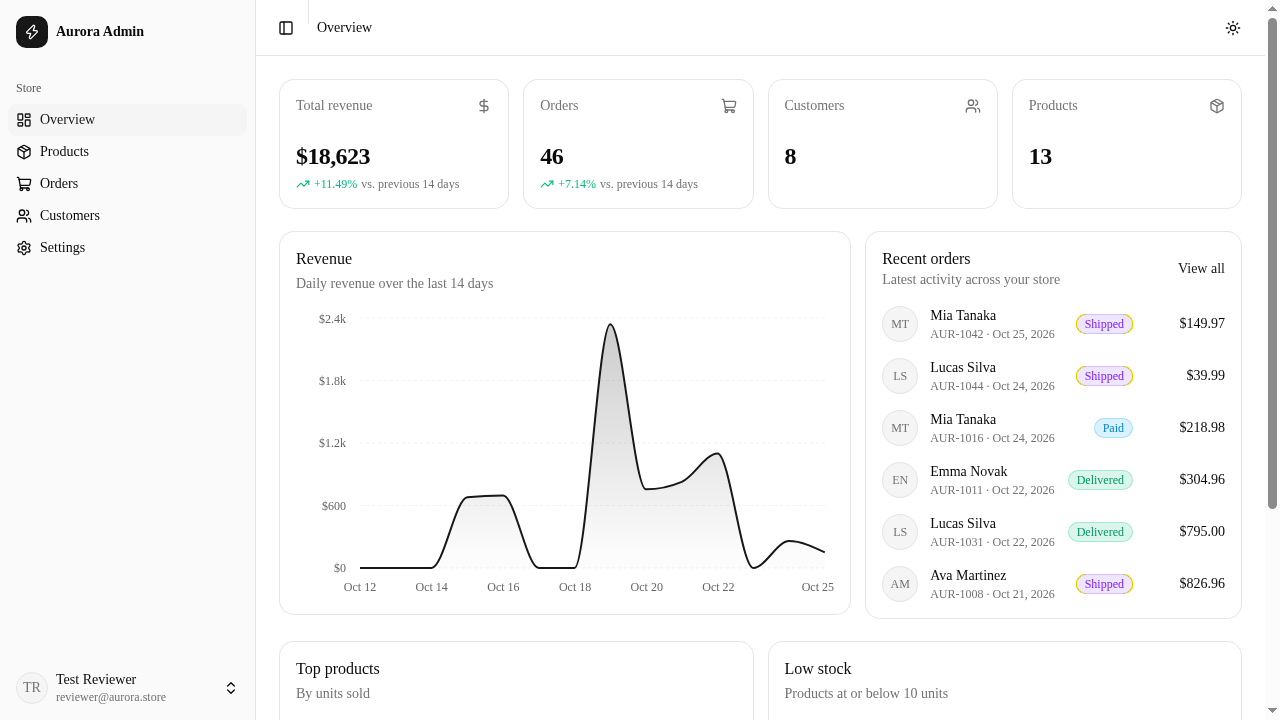
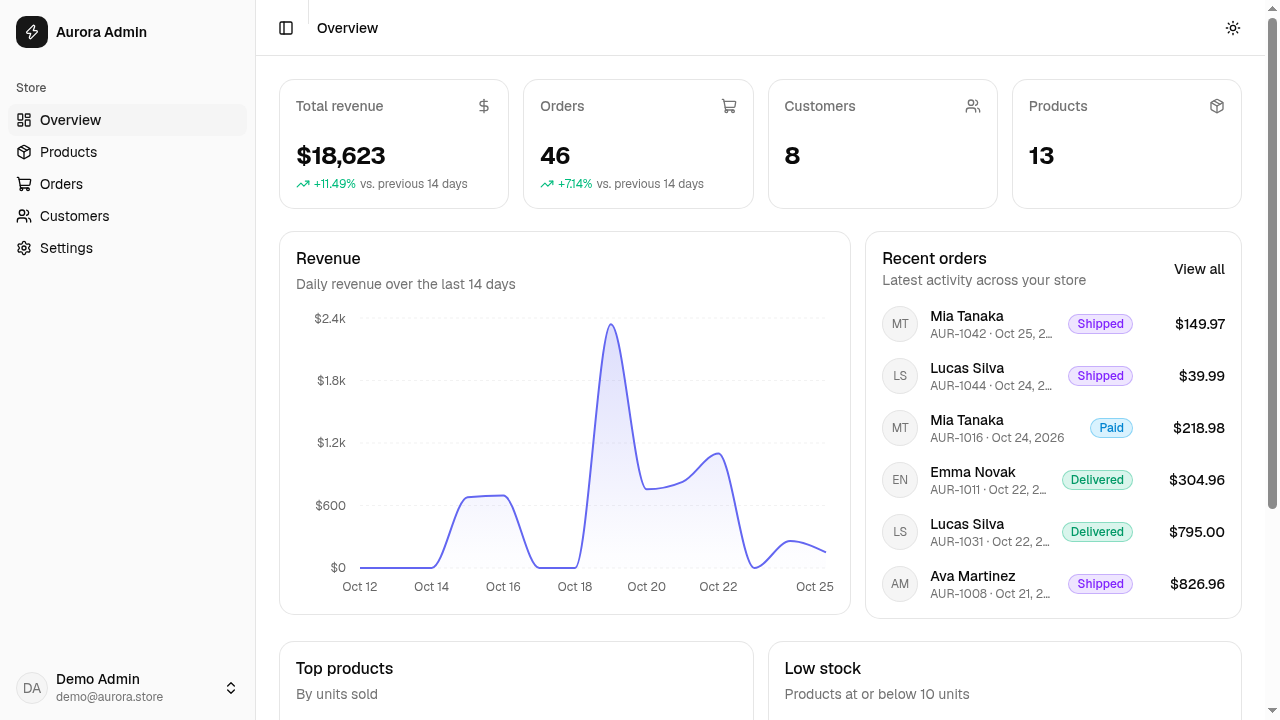
Polish: fix Geist font loading, mobile overflow, badge contrast, light-mode chart paint; add architecture walkthrough

diff --git a/src/components/status-badge.tsx b/src/components/status-badge.tsx
@@ -2,14 +2,14 @@ import { Badge } from "@/components/ui/badge";
 import { cn } from "@/lib/utils";
 
 const styles: Record<string, string> = {
-  pending: "bg-amber-500/15 text-amber-600 dark:text-amber-400 border-amber-500/25",
-  paid: "bg-sky-500/15 text-sky-600 dark:text-sky-400 border-sky-500/25",
-  shipped: "bg-violet-500/15 text-violet-600 dark:text-violet-400 border-violet-500/25",
-  delivered: "bg-emerald-500/15 text-emerald-600 dark:text-emerald-400 border-emerald-500/25",
-  cancelled: "bg-red-500/15 text-red-600 dark:text-red-400 border-red-500/25",
-  active: "bg-emerald-500/15 text-emerald-600 dark:text-emerald-400 border-emerald-500/25",
-  draft: "bg-zinc-500/15 text-zinc-600 dark:text-zinc-400 border-zinc-500/25",
-  archived: "bg-orange-500/15 text-orange-600 dark:text-orange-400 border-orange-500/25",
+  pending: "bg-amber-500/15 text-amber-600 dark:text-amber-400 border-[rgb(245_158_11/0.4)]",
+  paid: "bg-sky-500/15 text-sky-600 dark:text-sky-400 border-[rgb(14_165_233/0.4)]",
+  shipped: "bg-violet-500/15 text-violet-600 dark:text-violet-400 border-[rgb(139_92_246/0.4)]",
+  delivered: "bg-emerald-500/15 text-emerald-600 dark:text-emerald-400 border-[rgb(16_185_129/0.4)]",
+  cancelled: "bg-red-500/15 text-red-600 dark:text-red-400 border-[rgb(239_68_68/0.4)]",
+  active: "bg-emerald-500/15 text-emerald-600 dark:text-emerald-400 border-[rgb(16_185_129/0.4)]",
+  draft: "bg-zinc-500/15 text-zinc-600 dark:text-zinc-400 border-[rgb(113_113_122/0.4)]",
+  archived: "bg-orange-500/15 text-orange-600 dark:text-orange-400 border-[rgb(249_115_22/0.4)]",
 };
 
 export function StatusBadge({ status }: { status: string }) {

diff --git a/src/app/layout.tsx b/src/app/layout.tsx
@@ -14,8 +14,8 @@ export const metadata: Metadata = {
 
 export default function RootLayout({ children }: Readonly<{ children: React.ReactNode }>) {
   return (
-    <html lang="en" suppressHydrationWarning>
-      <body className={`${geistSans.variable} ${geistMono.variable} antialiased`}>
+    <html lang="en" suppressHydrationWarning className={`${geistSans.variable} ${geistMono.variable}`}>
+      <body className="antialiased">
         <ThemeProvider attribute="class" defaultTheme="system" enableSystem disableTransitionOnChange>
           {children}
           <Toaster richColors position="top-right" />

diff --git a/src/app/dashboard/page.tsx b/src/app/dashboard/page.tsx
@@ -50,10 +50,10 @@ export default function DashboardPage() {
           )}
         </div>
         <div className="grid gap-4 lg:grid-cols-5">
-          <div className="lg:col-span-3">
+          <div className="min-w-0 lg:col-span-3">
             {stats ? <RevenueChart data={stats.revenueSeries} /> : <Skeleton className="h-96 rounded-xl" />}
           </div>
-          <div className="lg:col-span-2">
+          <div className="min-w-0 lg:col-span-2">
             {stats ? <RecentOrders orders={stats.recentOrders} /> : <Skeleton className="h-96 rounded-xl" />}
           </div>
         </div>

diff --git a/src/app/dashboard/customers/page.tsx b/src/app/dashboard/customers/page.tsx
@@ -52,8 +52,8 @@ export default function CustomersPage() {
           <Search className="absolute left-2.5 top-2.5 h-4 w-4 text-muted-foreground" />
           <Input placeholder="Search customers…" value={q} onChange={(e) => setQ(e.target.value)} className="pl-9" />
         </div>
-        <div className="rounded-xl border bg-card">
-          <Table>
+        <div className="overflow-x-auto rounded-xl border bg-card">
+          <Table className="min-w-[520px]">
             <TableHeader>
               <TableRow>
                 <TableHead>Customer</TableHead>

diff --git a/src/components/revenue-chart.tsx b/src/components/revenue-chart.tsx
@@ -6,7 +6,10 @@ import { ChartContainer, ChartTooltip, ChartTooltipContent, type ChartConfig } f
 import { formatCurrency } from "@/lib/format";
 
 const chartConfig = {
-  revenue: { label: "Revenue", color: "var(--color-primary, #6366f1)" },
+  revenue: {
+    label: "Revenue",
+    theme: { light: "#6366f1", dark: "#a5b4fc" },
+  },
 } satisfies ChartConfig;
 
 export function RevenueChart({ data }: { data: { date: string; revenue: number; orders: number }[] }) {

diff --git a/src/app/dashboard/products/page.tsx b/src/app/dashboard/products/page.tsx
@@ -92,8 +92,8 @@ export default function ProductsPage() {
           </Button>
         </div>
 
-        <div className="rounded-xl border bg-card">
-          <Table>
+        <div className="overflow-x-auto rounded-xl border bg-card">
+          <Table className="min-w-[640px]">
             <TableHeader>
               <TableRow>
                 <TableHead>Product</TableHead>

diff --git a/src/app/dashboard/orders/page.tsx b/src/app/dashboard/orders/page.tsx
@@ -124,8 +124,8 @@ export default function OrdersPage() {
           </Select>
         </div>
 
-        <div className="rounded-xl border bg-card">
-          <Table>
+        <div className="overflow-x-auto rounded-xl border bg-card">
+          <Table className="min-w-[640px]">
             <TableHeader>
               <TableRow>
                 <TableHead>Order</TableHead>

diff --git a/src/app/globals.css b/src/app/globals.css
@@ -7,7 +7,7 @@
 @theme inline {
   --color-background: var(--background);
   --color-foreground: var(--foreground);
-  --font-sans: var(--font-sans);
+  --font-sans: var(--font-geist-sans), ui-sans-serif, system-ui, -apple-system, "Segoe UI", sans-serif;
   --font-mono: var(--font-geist-mono);
   --font-heading: var(--font-sans);
   --color-sidebar-ring: var(--sidebar-ring);

diff --git a/docs/ARCHITECTURE.md b/docs/ARCHITECTURE.md
@@ -1,0 +1,120 @@
+# Architecture & code walkthrough
+
+A guided tour of how Aurora Admin fits together, written so you can explain every part
+of the implementation in your own words.
+
+## Big picture
+
+This is a **single Next.js application**: the React frontend and the JSON API live in the
+same codebase and the same server process. The frontend calls the API with `fetch`, and
+the API talks to a SQLite database through Prisma.
+
+```
+Browser (React pages, client components)
+    |  fetch("/api/...") with session cookie
+    v
+Next.js route handlers (src/app/api/**)  -- zod validation, session check
+    |  Prisma Client
+    v
+SQLite database (prisma/dev.db)
+```
+
+## The data model (prisma/schema.prisma)
+
+Five models:
+
+- **User** – dashboard accounts. Stores `passwordHash` (never the plain password).
+- **Product** – catalog items with SKU, category, price, stock and a lifecycle status
+  (`active` / `draft` / `archived`).
+- **Customer** – people who placed orders.
+- **Order** – has a human-friendly `orderNumber`, a workflow status
+  (`pending → paid → shipped → delivered`, or `cancelled`), a cached `total`, and a
+  required link to its Customer.
+- **OrderItem** – join rows between Order and Product with `quantity` and the
+  `unitPrice` at purchase time, so past orders don't change when a product price changes.
+
+`prisma/seed.ts` wipes and recreates deterministic demo data (a seeded PRNG means the
+same products/orders every time) plus a demo admin account.
+
+## Authentication, end to end (src/lib/auth.ts)
+
+1. **Signup** (`POST /api/auth/signup`): the body is parsed with
+   `signupSchema` (zod). Duplicate emails are rejected with 409. The password is hashed
+   with **bcrypt, cost 12** (`hashPassword`) and only the hash is stored.
+2. **Session**: on signup or login, `setSessionCookie` signs a JWT containing the user
+   id with **jose** (HS256, 7-day expiry) and stores it in an `httpOnly`,
+   `sameSite=lax` cookie. `httpOnly` means JavaScript can't read it, which blocks XSS
+   token theft; the browser sends it automatically on every request.
+3. **Login** (`POST /api/auth/login`): looks the user up by email and calls
+   `bcrypt.compare`. Wrong email and wrong password return the **same** generic 401
+   message so the endpoint can't be used to enumerate accounts.
+4. **Guards**: `getSessionUser()` reads + verifies the cookie and loads the user. It is
+   called in two places, so protection doesn't depend on any single layer:
+   - `src/app/dashboard/layout.tsx` (server component) redirects anonymous visitors to
+     `/login` before any dashboard HTML is rendered;
+   - every API route returns **401** when there is no valid session.
+5. **Logout** clears the cookie.
+6. **Password change** re-verifies the current password before storing the new hash.
+
+Why JWT-in-cookie instead of a database session table? Stateless verification (no DB
+lookup to validate the token), which is simple and fast for this scope; the trade-off
+(no server-side revocation list) is acceptable for a demo and is a good talking point.
+
+## Input validation (src/lib/validators.ts)
+
+All request bodies go through zod schemas shared by client and server: signup, login,
+product create/update (SKU format, positive price, non-negative integer stock, status
+enum), order status, profile and password change. The API never trusts the client:
+even though forms have `required`/`minLength` attributes, the same rules run again on
+the server.
+
+## The API layer (src/app/api/**)
+
+Next.js **route handlers** (`route.ts` files) replace a separate Express app:
+
+- `GET/POST /api/products`, `PATCH/DELETE /api/products/[id]` – list with debounced
+  search + pagination (8 per page), create with duplicate-SKU guard (409), update with
+  partial schema, delete blocked when the product appears in orders (the UI suggests
+  archiving instead).
+- `GET /api/orders`, `GET/PATCH /api/orders/[id]` – list with search + status filter +
+  pagination; detail includes line items with product names; status updates are
+  validated against the workflow enum.
+- `GET /api/customers` – customers with computed `ordersCount` and `totalSpent`
+  (cancelled orders excluded).
+- `GET /api/stats` – everything the overview page needs in one round trip.
+- `/api/auth/*` and `/api/settings/profile` as described above.
+
+## Stats & charts (src/lib/stats.ts)
+
+Aggregation logic is **pure functions** (no database, no framework) so it can be unit
+tested: `totalRevenue` (excludes cancelled orders), `countByStatus`,
+`dailyRevenueSeries` (builds a contiguous 14-day UTC series with zero-filled gaps),
+`percentChange` (period-over-period deltas, `null` when the previous period was 0).
+`/api/stats` only queries Prisma and delegates the math. The chart is Recharts wrapped
+in the shadcn/ui `ChartContainer` for theming.
+
+## Frontend composition
+
+- `src/app/(auth)/` – login & signup share a layout with the animated gradient
+  backdrop; `auth-form.tsx` is one client component parameterised by mode.
+- `src/app/dashboard/layout.tsx` – server-side session guard + sidebar shell
+  (`SidebarProvider`, `AppSidebar`, collapsible on mobile).
+- Pages are client components that fetch their API, with skeleton placeholders while
+  the displayed data doesn't match the current query (a keyed-result pattern instead
+  of `setState` inside effects).
+- UI primitives in `src/components/ui/` come from the **shadcn/ui** registry (Base UI
+  style); application components (sidebar, stat cards, tables, dialogs, chart) are
+  composed from them in `src/components/`.
+- Dark/light theming uses `next-themes` with CSS variables, so every component
+  inherits both themes automatically.
+
+## Testing (tests/)
+
+Vitest unit tests cover the pieces where a bug would hurt most: password hashing and
+verification, JWT round-trip + tamper rejection, zod schema edge cases, and the stats
+math (including timezone-safe date bucketing). Run with `npm test`.
+
+## Scripts
+
+`npm run dev` (develop) · `npm run build && npm start` (production) ·
+`npm run db:setup` (migrate + seed) · `npm test` · `npm run lint`

diff --git a/README.md b/README.md
@@ -50,13 +50,17 @@ Built with **Next.js (App Router) + TypeScript + Tailwind CSS + shadcn/ui**, wit
 
 ## Screenshots
 
-| Dashboard (light) | Products (dark) |
+| Dashboard (light) | Dashboard (dark) |
 | --- | --- |
-| ![Dashboard](docs/screenshots/dashboard-light.png) | ![Products](docs/screenshots/products-dark.png) |
+| ![Dashboard light](docs/screenshots/dashboard-light.png) | ![Dashboard dark](docs/screenshots/dashboard-dark.png) |
 
-| Orders | Order detail | Mobile |
+| Products (dark) | Orders (light) | Orders (dark) |
 | --- | --- | --- |
-| ![Orders](docs/screenshots/orders-dark.png) | ![Order detail](docs/screenshots/order-detail-dark.png) | ![Mobile](docs/screenshots/dashboard-mobile.png) |
+| ![Products](docs/screenshots/products-dark.png) | ![Orders light](docs/screenshots/orders-light.png) | ![Orders](docs/screenshots/orders-dark.png) |
+
+| Order detail (dark) | Mobile dashboard | Mobile products |
+| --- | --- | --- |
+| ![Order detail](docs/screenshots/order-detail-dark.png) | ![Mobile dashboard](docs/screenshots/dashboard-mobile.png) | ![Mobile products](docs/screenshots/products-mobile.png) |
 
 ## Run locally
 
@@ -102,6 +106,9 @@ src/
   lib/                db client, auth/session helpers, zod validators, stats logic
 tests/                Vitest unit tests
 ```
+
+For a guided tour of the codebase (data model, auth flow, API design, testing), see
+[docs/ARCHITECTURE.md](docs/ARCHITECTURE.md).
 
 ## Notes on implementation
 
